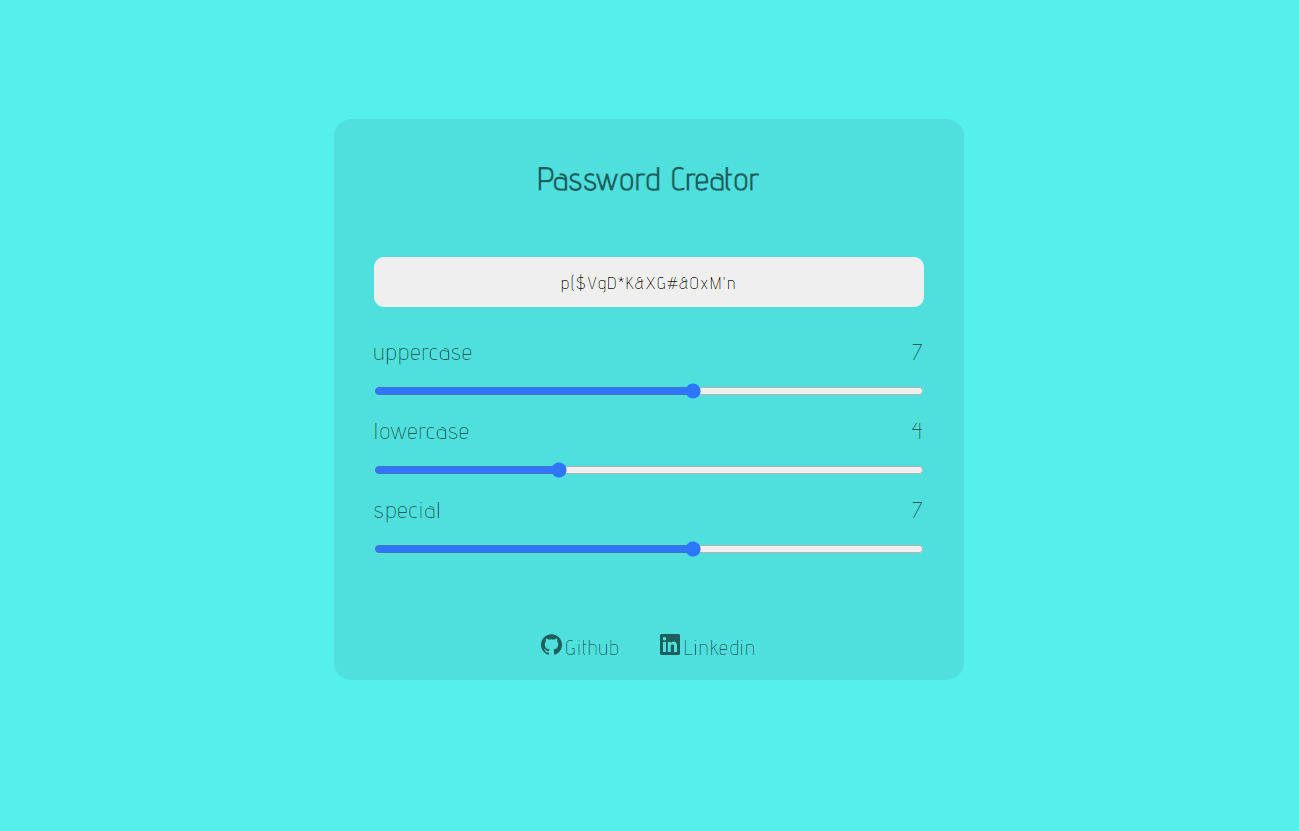
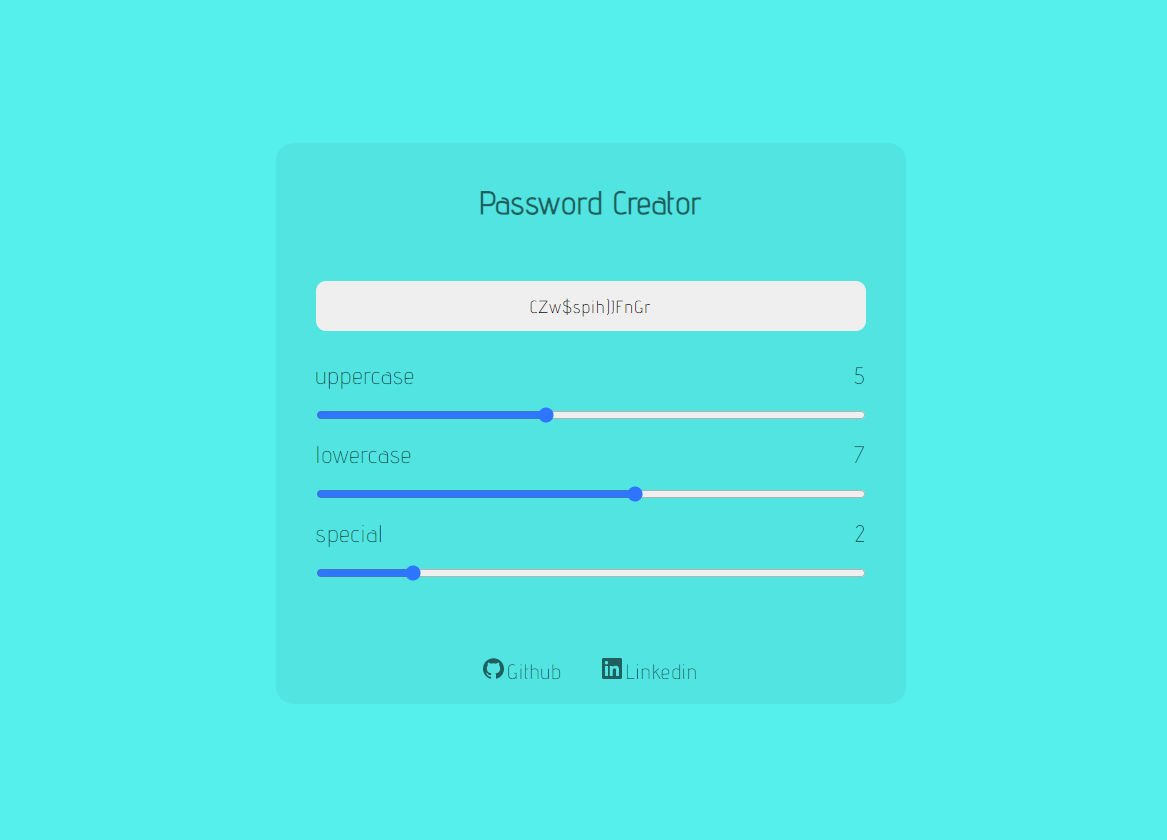
Updates

Changed region(s): [[0.2468, 0.3008, 0.7404, 0.6919], [0.401, 0.1805, 0.5861, 0.2708], [0.401, 0.7521, 0.5861, 0.8123]]

diff --git a/style.css b/style.css
@@ -37,9 +37,9 @@ body {
     color: #00000094;
     margin: 40px auto 10px auto;
     padding: 40px 40px 20px 40px;
-    width: 40%;
+    width: 100%;
     text-align: left;
-    background: #0b100a12;
+    background: #0b100a0d;
     border-radius: 3%;
     letter-spacing: 0.8px;
     max-width: 550px;
@@ -70,4 +70,10 @@ body {
 
 .type-value {
     font-size: 1.5em;
+}
+
+@media (max-width: 635px) {
+    .App {
+        background-color: transparent;
+    }
 }
